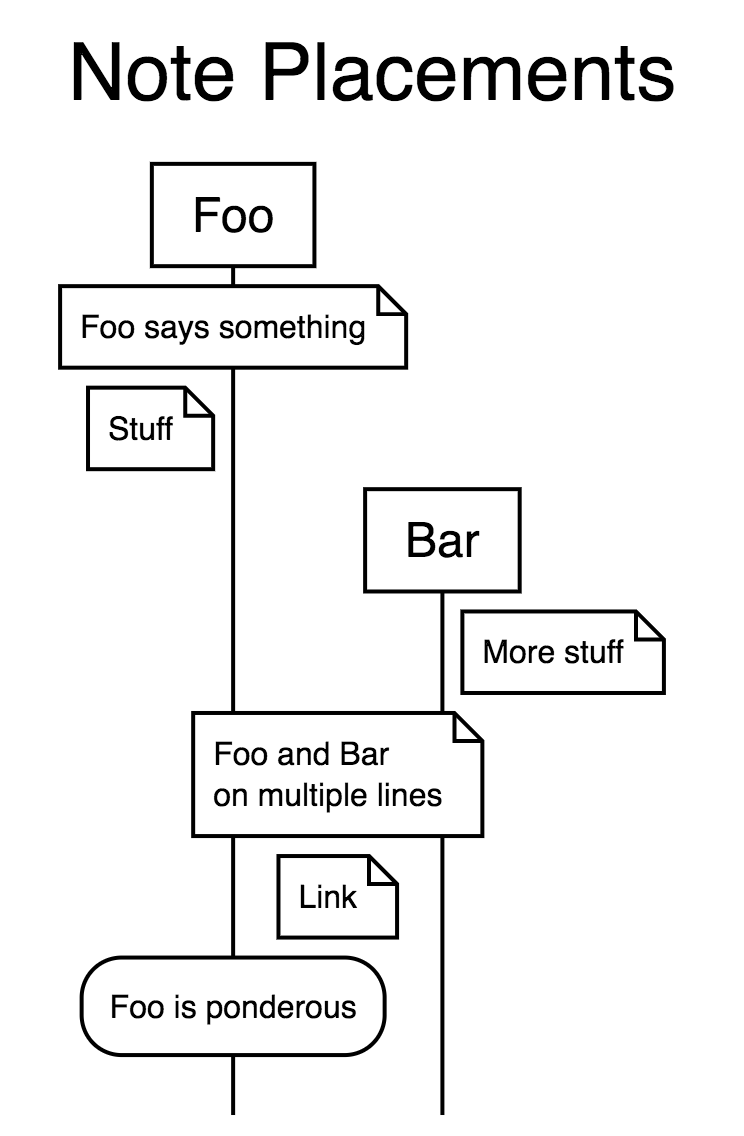
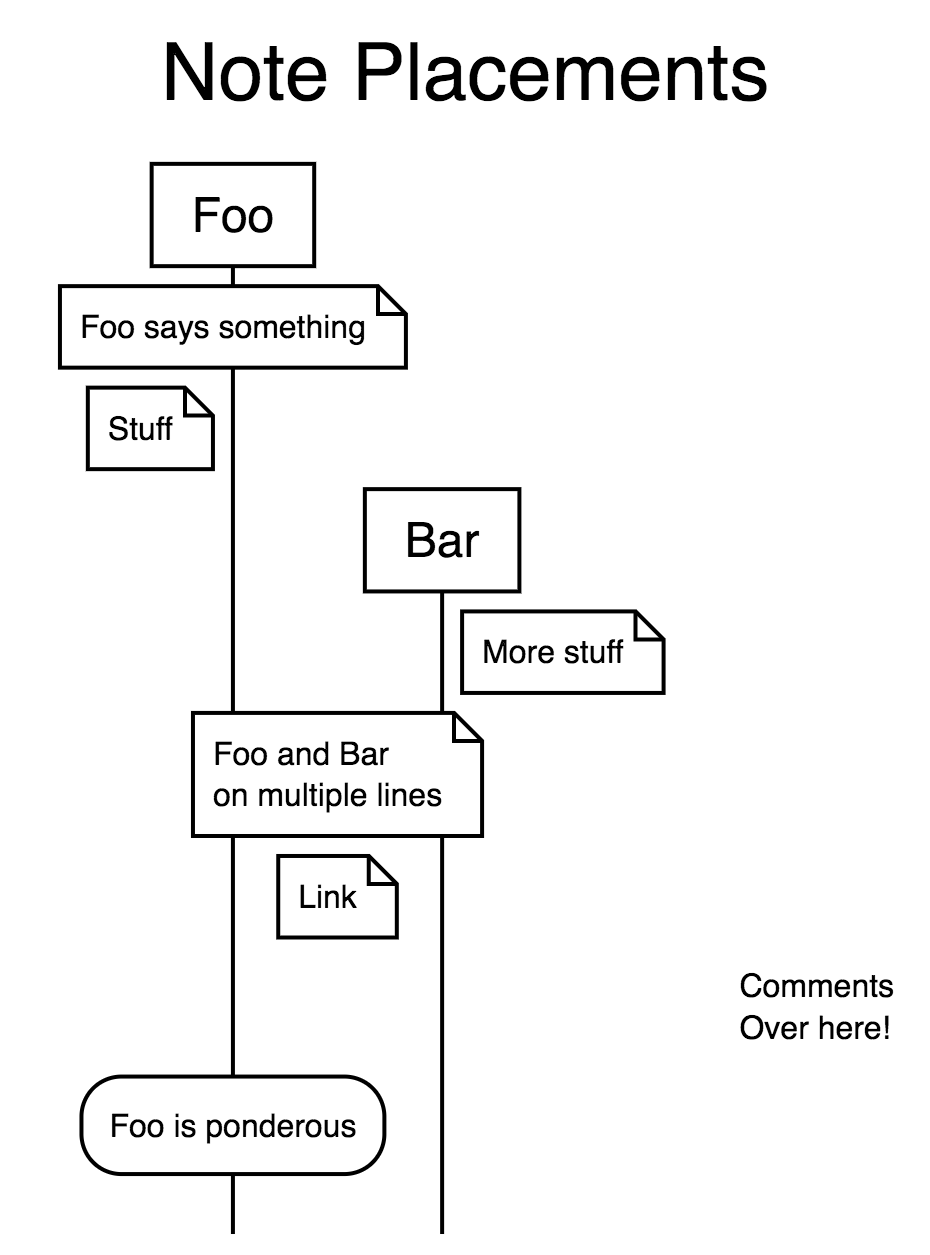
Add support for unbordered text content, add convenience for placing notes/text on left/right of entire diagram

Changed region(s): [[0.0618, 0.1232, 0.8965, 0.9859], [0.0927, 0.0308, 0.9274, 0.0924], [0.7728, 0.7702, 0.9583, 0.8319]]

diff --git a/scripts/sequence/Generator.js b/scripts/sequence/Generator.js
@@ -11,6 +11,12 @@ define(['core/ArrayUtilities'], (array) => {
 	const LOCKED_AGENT = new AgentState(false, true);
 	const DEFAULT_AGENT = new AgentState(false);
 
+	const NOTE_DEFAULT_AGENTS = {
+		'note over': ['[', ']'],
+		'note left': ['['],
+		'note right': [']'],
+	};
+
 	return class Generator {
 		constructor() {
 			this.agentStates = new Map();
@@ -24,6 +30,9 @@ define(['core/ArrayUtilities'], (array) => {
 			this.stageHandlers = {
 				'mark': this.handleMark.bind(this),
 				'async': this.handleAsync.bind(this),
+				'note over': this.handleNote.bind(this),
+				'note left': this.handleNote.bind(this),
+				'note right': this.handleNote.bind(this),
 				'agent define': this.handleAgentDefine.bind(this),
 				'agent begin': this.handleAgentBegin.bind(this),
 				'agent end': this.handleAgentEnd.bind(this),
@@ -129,6 +138,16 @@ define(['core/ArrayUtilities'], (array) => {
 				throw new Error('Unknown marker: ' + stage.target);
 			}
 			this.currentSection.stages.push(stage);
+		}
+
+		handleNote(stage) {
+			if(stage.agents.length === 0) {
+				this.handleUnknownStage(Object.assign({}, stage, {
+					agents: NOTE_DEFAULT_AGENTS[stage.type] || [],
+				}));
+			} else {
+				this.handleUnknownStage(stage);
+			}
 		}
 
 		handleAgentDefine({agents}) {

diff --git a/scripts/sequence/Renderer.js b/scripts/sequence/Renderer.js
@@ -170,6 +170,8 @@ define([
 			agents.forEach((agentR) => {
 				const infoR = this.agentInfos.get(agentR);
 				const sepR = agentSpaces.get(agentR) || SEP_ZERO;
+				infoR.maxRPad = Math.max(infoR.maxRPad, sepR.right);
+				infoR.maxLPad = Math.max(infoR.maxLPad, sepR.left);
 				agents.forEach((agentL) => {
 					const infoL = this.agentInfos.get(agentL);
 					if(infoL.index >= infoR.index) {
@@ -853,8 +855,6 @@ define([
 					}
 				});
 				agentInfo.x = currentX;
-				this.minX = Math.min(this.minX, currentX);
-				this.maxX = Math.max(this.maxX, currentX);
 				orderedInfos.push(agentInfo);
 			});
 
@@ -873,6 +873,11 @@ define([
 				});
 				agentInfo.x = currentX;
 			});
+
+			this.agentInfos.forEach(({label, x, maxRPad, maxLPad}) => {
+				this.minX = Math.min(this.minX, x - maxLPad);
+				this.maxX = Math.max(this.maxX, x + maxRPad);
+			});
 		}
 
 		buildAgentInfos(agents, stages) {
@@ -885,6 +890,8 @@ define([
 					x: null,
 					latestYStart: null,
 					latestY: 0,
+					maxRPad: 0,
+					maxLPad: 0,
 					separations: new Map(),
 				});
 			});

diff --git a/scripts/sequence/Generator_spec.js b/scripts/sequence/Generator_spec.js
@@ -481,6 +481,21 @@ defineDescribe('Sequence Generator', ['./Generator'], (Generator) => {
 			]})).toThrow();
 		});
 
+		it('defaults to showing notes around the entire diagram', () => {
+			const sequence = generator.generate({stages: [
+				{type: 'note right', agents: [], foo: 'bar'},
+				{type: 'note left', agents: [], foo: 'bar'},
+				{type: 'note over', agents: [], foo: 'bar'},
+				{type: 'note right', agents: ['[']},
+			]});
+			expect(sequence.stages).toEqual([
+				{type: 'note right', agents: [']'], foo: 'bar'},
+				{type: 'note left', agents: ['['], foo: 'bar'},
+				{type: 'note over', agents: ['[', ']'], foo: 'bar'},
+				{type: 'note right', agents: ['[']},
+			]);
+		});
+
 		it('rejects attempts to change implicit agents', () => {
 			expect(() => generator.generate({stages: [
 				{type: AGENT_BEGIN, agents: ['['], mode: 'box'},

diff --git a/scripts/sequence/Parser_spec.js b/scripts/sequence/Parser_spec.js
@@ -325,7 +325,7 @@ defineDescribe('Sequence Parser', ['./Parser'], (Parser) => {
 		});
 
 		it('rejects note between for a single agent', () => {
-			expect(() => parser.parse('state between A: hi')).toThrow();
+			expect(() => parser.parse('note between A: hi')).toThrow();
 		});
 
 		it('converts state', () => {
@@ -340,6 +340,16 @@ defineDescribe('Sequence Parser', ['./Parser'], (Parser) => {
 
 		it('rejects multiple agents for state', () => {
 			expect(() => parser.parse('state over A, B: hi')).toThrow();
+		});
+
+		it('converts text blocks', () => {
+			const parsed = parser.parse('text right of A: doing stuff');
+			expect(parsed.stages).toEqual([{
+				type: 'note right',
+				agents: ['A'],
+				mode: 'text',
+				label: 'doing stuff',
+			}]);
 		});
 
 		it('converts agent commands', () => {

diff --git a/scripts/sequence/Parser.js b/scripts/sequence/Parser.js
@@ -49,12 +49,19 @@ define(['core/ArrayUtilities'], (array) => {
 	];
 
 	const NOTE_TYPES = {
+		'text': {
+			mode: 'text',
+			types: {
+				'left': {type: 'note left', skip: ['of'], min: 0, max: null},
+				'right': {type: 'note right', skip: ['of'], min: 0, max: null},
+			},
+		},
 		'note': {
 			mode: 'note',
 			types: {
-				'over': {type: 'note over', skip: [], min: 1, max: null},
-				'left': {type: 'note left', skip: ['of'], min: 1, max: null},
-				'right': {type: 'note right', skip: ['of'], min: 1, max: null},
+				'over': {type: 'note over', skip: [], min: 0, max: null},
+				'left': {type: 'note left', skip: ['of'], min: 0, max: null},
+				'right': {type: 'note right', skip: ['of'], min: 0, max: null},
 				'between': {type: 'note between', skip: [], min: 2, max: null},
 			},
 		},

diff --git a/scripts/sequence/themes/Basic.js b/scripts/sequence/themes/Basic.js
@@ -178,6 +178,19 @@ define([
 		},
 
 		note: {
+			'text': {
+				margin: {top: 0, left: 2, right: 2, bottom: 0},
+				padding: {top: 2, left: 2, right: 2, bottom: 2},
+				overlap: {left: 10, right: 10},
+				boxRenderer: SVGShapes.renderBox.bind(null, {
+					'fill': '#FFFFFF',
+				}),
+				labelAttrs: {
+					'font-family': 'sans-serif',
+					'font-size': 8,
+					'line-height': LINE_HEIGHT,
+				},
+			},
 			'note': {
 				margin: {top: 0, left: 5, right: 5, bottom: 0},
 				padding: {top: 5, left: 5, right: 10, bottom: 5},

diff --git a/README.md b/README.md
@@ -75,6 +75,8 @@ note over Foo, Bar: "Foo and Bar
 on multiple lines"
 note between Foo, Bar: Link
 
+text right: 'Comments\nOver here!'
+
 state over Foo: Foo is ponderous
 ```
 
